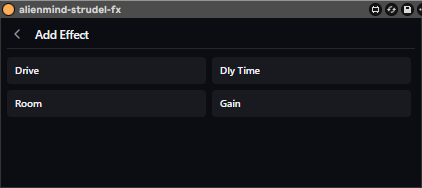
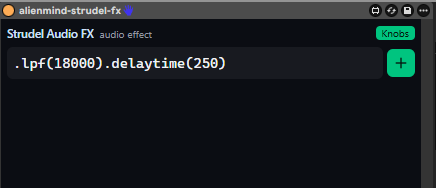
docs: add new screenshots and reference them in ABOUT.md

diff --git a/doc/ABOUT.md b/doc/ABOUT.md
@@ -21,6 +21,8 @@ richer effects rack; see [doc/TODO.md](TODO.md).
 
 ## What's in the box
 
+![All Devices](screenshot-all-devices.png)
+
 | Device | Type, drop it on | What it does for you |
 |---|---|---|
 | **Strudel MIDI** (`alienmind-strudel-midi.amxd`) | MIDI effect, a **MIDI track**, before an instrument | Type a Strudel pattern, press **Run**, and it streams live MIDI into whatever instrument sits after it - tempo-locked to Live, following tempo changes, multi-channel via `.midichan()`. Also converts patterns **to and from MIDI clips** on the track. |
@@ -63,6 +65,7 @@ Two workflows in one device:
   track, and read clips back into mini-notation via a dedicated popup.
 
 ![Clip Export and Import](screenshot-midi-export-import.png)
+![MIDI Clip generated from Strudel pattern](screenshot-devices-export-midi.png)
 
 ### The editor
 
@@ -166,6 +169,8 @@ file is already on disk in `samples/` beside the device → drag the row out.
 ## Strudel Audio FX (`alienmind-strudel-fx.amxd`)
 
 ![Strudel Audio FX device](screenshot-fx.png)
+![Strudel Audio FX Add Menu](screenshot-fx-2.png)
+![Strudel Audio FX Sliders](screenshot-fx-3.png)
 
 A genuine **audio effect** that brings Strudel's chainable DSP vocabulary to any audio track.
 